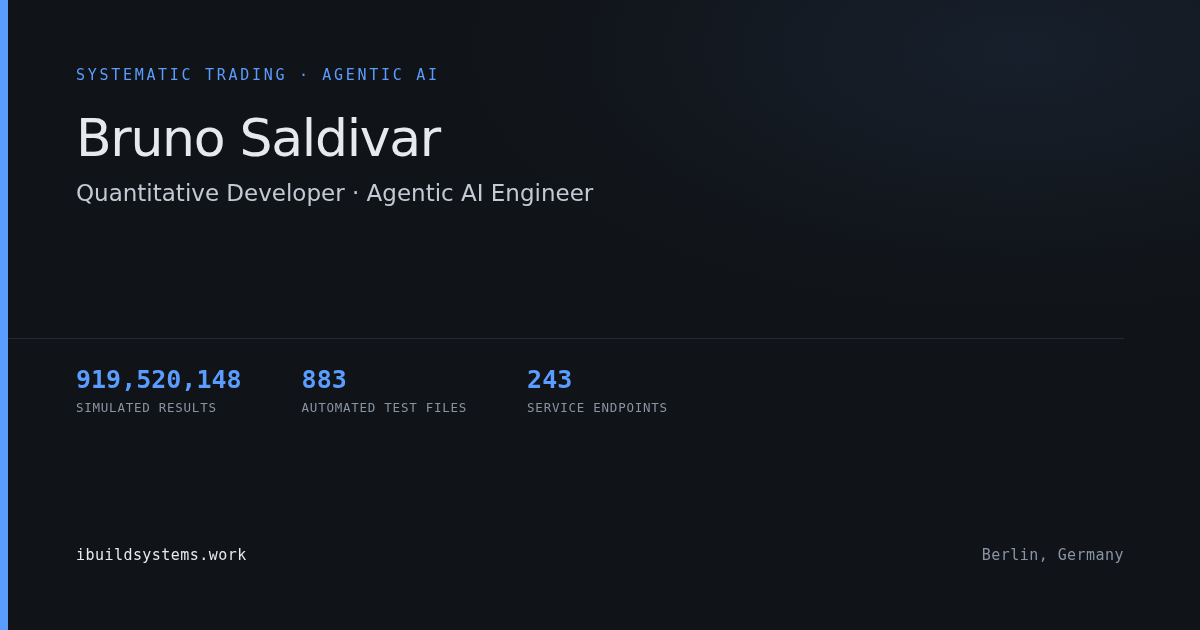
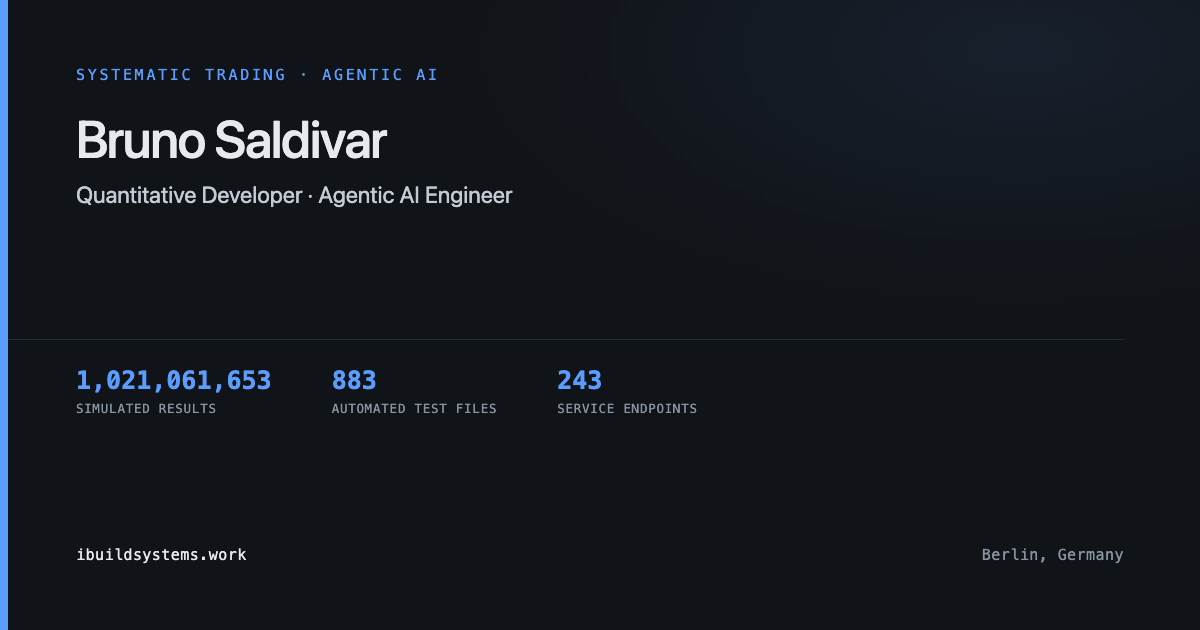
figures: 1,021,061,653 simulated results (919,520,148 plus LIT workbench 100,053,459, Trading Ranges annual 1,358,824 minimum, LIT annual 129,222), three research engines

diff --git a/portfolio/index.html b/portfolio/index.html
@@ -245,7 +245,7 @@
                 <div class="i">03</div>
                 <h5>Simulation</h5>
                 <p>Execution-aware backtesting with explicit fill, no-fill and rejection states, intrabar ordering, broker costs.</p>
-                <div class="fig">919,520,148<small>simulated results</small></div>
+                <div class="fig">1,021,061,653<small>simulated results</small></div>
               </div>
               <div class="stage">
                 <div class="i">04</div>
@@ -272,7 +272,7 @@
                 <div class="fig">883<small>automated test files</small></div>
               </div>
             </div>
-            <p>Two research engines have produced <b>919,520,148 simulated results</b> across ten markets and three years of history, every figure traced to a run manifest. The survivors then go through Monte Carlo stress before anything reaches a live account. Live today on FX, indices and crypto.</p>
+            <p>Three research engines have produced <b>1,021,061,653 simulated results</b> across ten markets and three years of history, every figure traced to a run manifest. The survivors then go through Monte Carlo stress before anything reaches a live account. Live today on FX, indices and crypto.</p>
             <div class="next">
               <div class="next-tag">08 · NEXT</div>
               <div>

diff --git a/og-card.source.html b/og-card.source.html
@@ -26,5 +26,5 @@ body{justify-content:space-between;padding-left:0}
 .pad{padding-left:76px}</style></head><body style="position:relative">
 <div class="bar"></div>
 <div class="pad"><p class="kick">Systematic Trading · Agentic AI</p><p class="name" style="margin:24px 0 12px">Bruno Saldivar</p><p class="role">Quantitative Developer · Agentic AI Engineer</p></div>
-<div class="pad" style="padding-top:26px;border-top:1px solid var(--hair)"><div style="display:flex;gap:60px"><div class="fig"><b>919,520,148</b><span>SIMULATED RESULTS</span></div><div class="fig"><b>883</b><span>AUTOMATED TEST FILES</span></div><div class="fig"><b>243</b><span>SERVICE ENDPOINTS</span></div></div></div>
+<div class="pad" style="padding-top:26px;border-top:1px solid var(--hair)"><div style="display:flex;gap:60px"><div class="fig"><b>1,021,061,653</b><span>SIMULATED RESULTS</span></div><div class="fig"><b>883</b><span>AUTOMATED TEST FILES</span></div><div class="fig"><b>243</b><span>SERVICE ENDPOINTS</span></div></div></div>
 <div class="pad foot" style="display:flex;justify-content:space-between"><b>ibuildsystems.work</b><span>Berlin, Germany</span></div></body></html>
